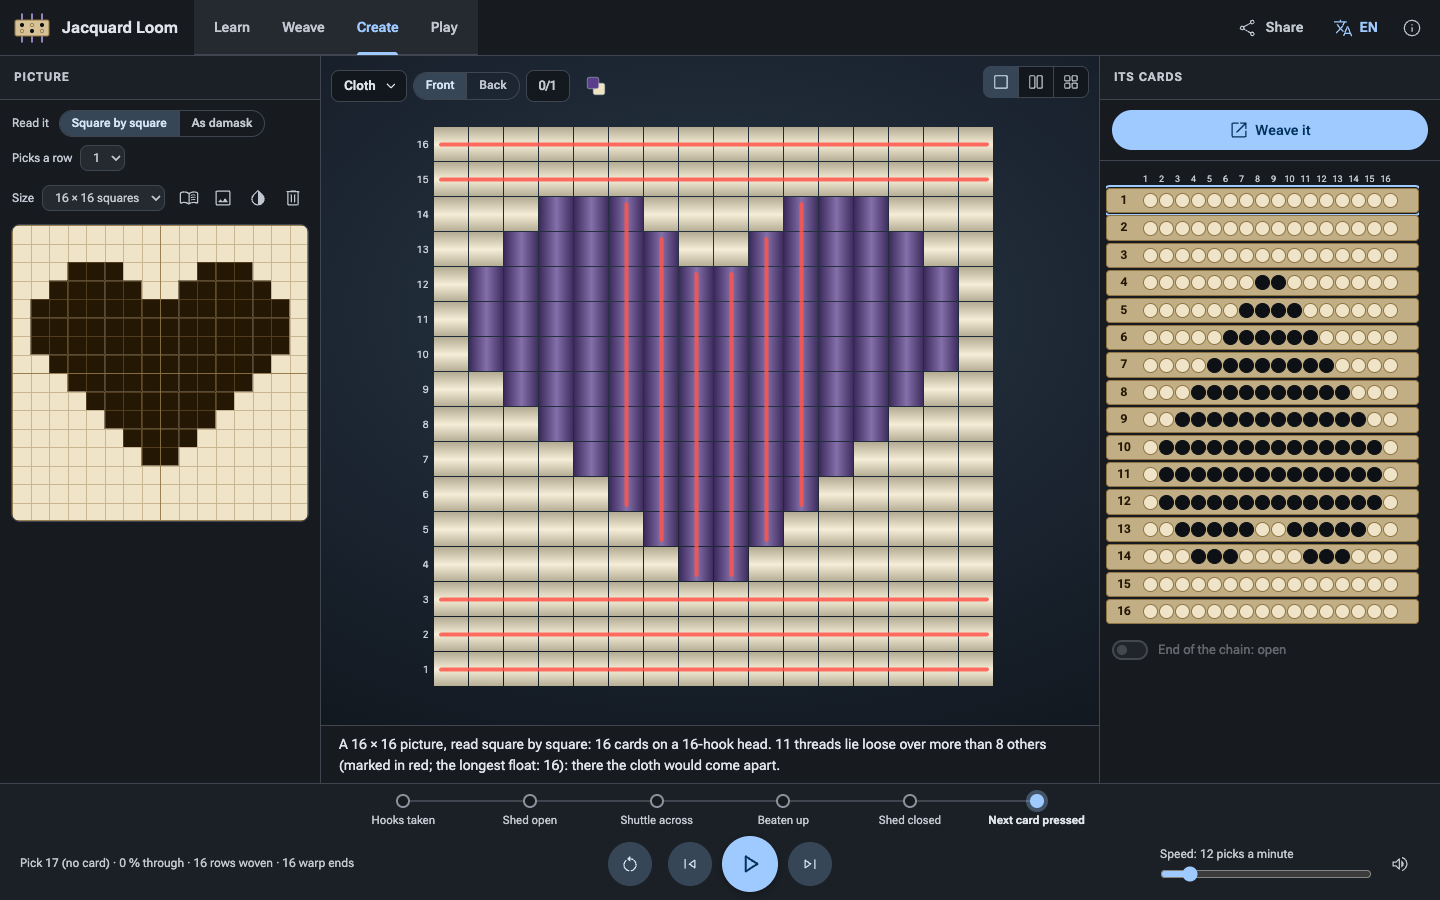
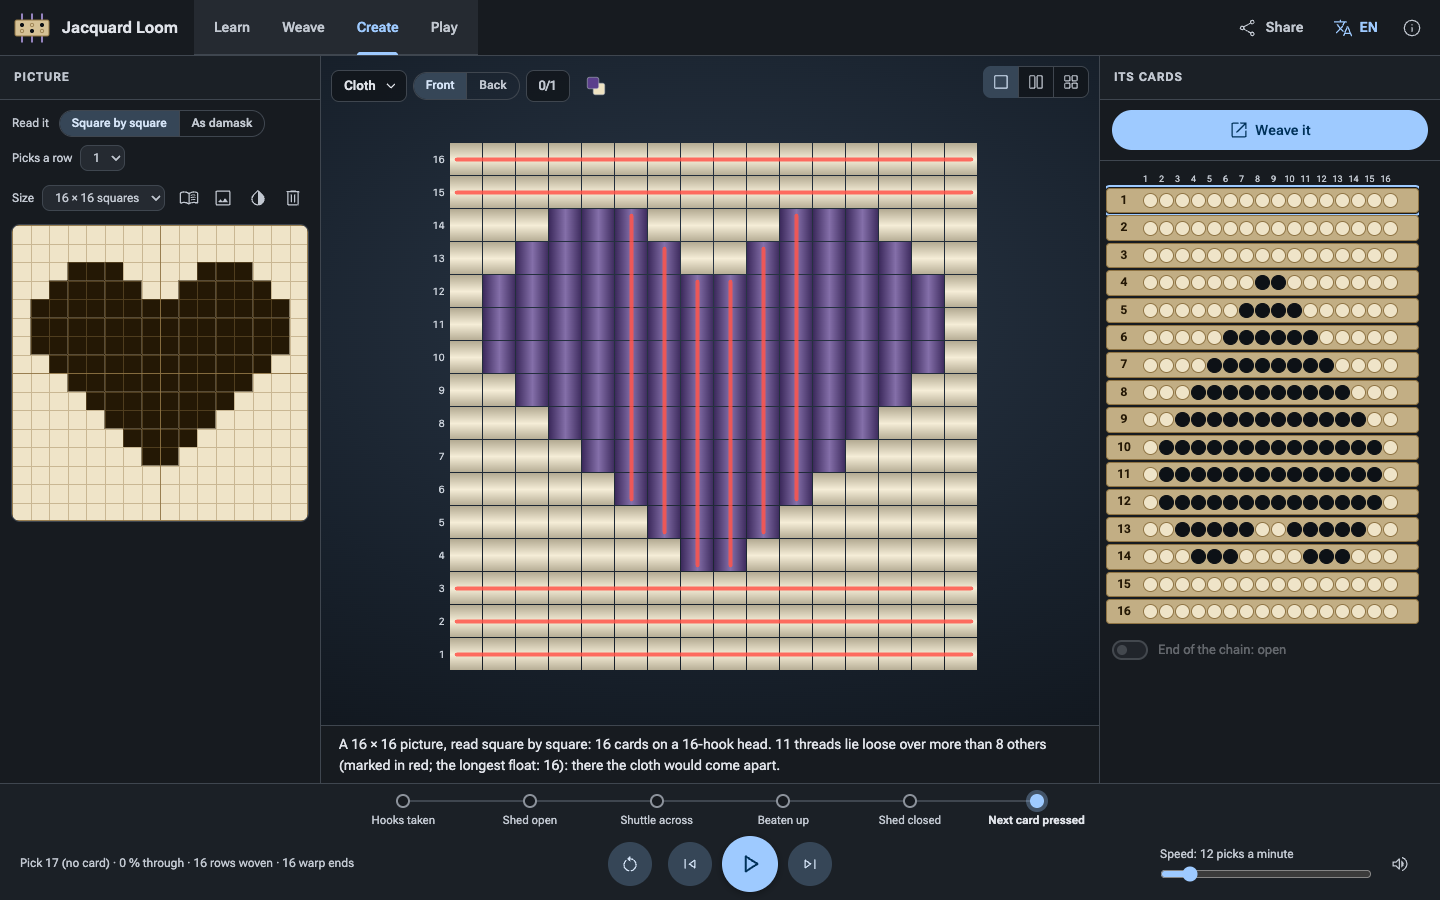
Create's cloth view: squares sized by the width only, at most 1.5 times the side panel's (33 px), rows past the pane scroll, as the side panel's cloth; the box centred by margins, so a tall cloth scrolls to its top; Play's checks renamed P-1 to P-6

Changed region(s): [[0.2812, 0.1244, 0.6875, 0.7778]]

diff --git a/js/accept/m9Checks.js b/js/accept/m9Checks.js
@@ -1,6 +1,6 @@
-// M9's checks on the app (design/m9-notes.md), run by index.html?selftest after M8's: G-1 Play
-// opens on its loom with the four games, G-2 the name game woven reads back as typed, G-3 one
-// byte per card and the friend's secret, G-4 guess the cloth, G-5 draw boy against Jacquard, G-6
+// M9's checks on the app (design/m9-notes.md), run by index.html?selftest after M8's: P-1 Play
+// opens on its loom with the four games, P-2 the name game woven reads back as typed, P-3 one
+// byte per card and the friend's secret, P-4 guess the cloth, P-5 draw boy against Jacquard, P-6
 // a game's link. The games' logic needs no page (tests/game/games.test.js).
 
 import { leaveLearn } from "../app/learn.js";
@@ -42,7 +42,7 @@ export async function runM9Checks(page) {
 }
 
 /**
- * G-1: Play opens on the game loom, the cloth on the stage, the games in four tabs; a tab
+ * P-1: Play opens on the game loom, the cloth on the stage, the games in four tabs; a tab
  * chooses its game.
  * @param {AppPage} page
  * @returns {Promise<CheckResult>}
@@ -59,11 +59,11 @@ async function opens({ store }) {
     await frames();
     if (store.state.play.game !== b.dataset.game || $(".game-title")?.textContent !== t(`game.${b.dataset.game}.title`)) bad.push(`the ${b.dataset.game} tab did not open its game`);
   }
-  return result("G-1", "Play opens on its loom with the cloth, and a tab for each of the four games opens it", bad.length === 0, bad.slice(0, 4).join("; ") || GAMES.join(", "));
+  return result("P-1", "Play opens on its loom with the cloth, and a tab for each of the four games opens it", bad.length === 0, bad.slice(0, 4).join("; ") || GAMES.join(", "));
 }
 
 /**
- * G-2: the name game: the text typed, woven to the end in both readings, reads back as typed.
+ * P-2: the name game: the text typed, woven to the end in both readings, reads back as typed.
  * @param {AppPage} page
  * @returns {Promise<CheckResult>}
  */
@@ -84,11 +84,11 @@ async function names({ store }) {
     const read = plan.ok ? decodeCloth(l.cloth, plan.plan).join("\n") : plan.reason;
     if (read !== "JACQUARD") bad.push(`${mode}: reads ${read}`);
   }
-  return result("G-2", "The name game: the text typed, woven to the end, reads back as typed, as damask and square by square", bad.length === 0, bad.slice(0, 4).join("; ") || "JACQUARD both ways");
+  return result("P-2", "The name game: the text typed, woven to the end, reads back as typed, as damask and square by square", bad.length === 0, bad.slice(0, 4).join("; ") || "JACQUARD both ways");
 }
 
 /**
- * G-3: one byte per card: the message is a card a character, woven back into the text; its link
+ * P-3: one byte per card: the message is a card a character, woven back into the text; its link
  * gives a friend only the cards, and the right reading is told so.
  * @param {AppPage} page
  * @returns {Promise<CheckResult>}
@@ -118,11 +118,11 @@ async function bytes({ store }) {
     await frames();
     if (!$(".game-body .game-result")?.textContent) bad.push("Check says nothing");
   }
-  return result("G-3", "One byte per card: a card a character, the cloth reads back as the message; its link gives only the cards, to be read", bad.length === 0, bad.slice(0, 4).join("; ") || `Loom in 4 cards; a ${fragment.length}-character link`);
+  return result("P-3", "One byte per card: a card a character, the cloth reads back as the message; its link gives only the cards, to be read", bad.length === 0, bad.slice(0, 4).join("; ") || `Loom in 4 cards; a ${fragment.length}-character link`);
 }
 
 /**
- * G-4: guess the cloth: three cloths, one the deck weaves; a wrong pick is told why, the right
+ * P-4: guess the cloth: three cloths, one the deck weaves; a wrong pick is told why, the right
  * one counted; Next brings another puzzle.
  * @param {AppPage} page
  * @returns {Promise<CheckResult>}
@@ -149,11 +149,11 @@ async function guess({ store }) {
   $$(".guess-choices .guess-choice")[q2.answer]?.click();
   await frames();
   if (store.state.play.guess.right !== 1) bad.push(`the right pick is not counted (${store.state.play.guess.right})`);
-  return result("G-4", "Guess the cloth: three cloths; a wrong pick is told why, the right one counted; Next brings another", bad.length === 0, bad.slice(0, 4).join("; ") || `puzzle ${seed}, answer ${q.answer + 1}`);
+  return result("P-4", "Guess the cloth: three cloths; a wrong pick is told why, the right one counted; Next brings another", bad.length === 0, bad.slice(0, 4).join("; ") || `puzzle ${seed}, answer ${q.answer + 1}`);
 }
 
 /**
- * G-5: draw boy against Jacquard: the figure woven by hand, cord by cord, row by row, then by the
+ * P-5: draw boy against Jacquard: the figure woven by hand, cord by cord, row by row, then by the
  * cards, the same cloth.
  * @param {AppPage} page
  * @returns {Promise<CheckResult>}
@@ -179,11 +179,11 @@ async function drawBoy({ store }) {
   await frames();
   const cloth = store.state.looms.game.loom.cloth;
   if (cloth.length !== ROWS.length || cloth.some((r, p) => r.slice(0, 8).join() !== ROWS[p].join())) bad.push("the cards' cloth is not the figure");
-  return result("G-5", "Draw boy against Jacquard: the figure woven cord by cord by hand, then by the cards, the same cloth", bad.length === 0, bad.slice(0, 4).join("; ") || `${hand.pulls} cords pulled for ${ROWS.length} rows`);
+  return result("P-5", "Draw boy against Jacquard: the figure woven cord by cord by hand, then by the cards, the same cloth", bad.length === 0, bad.slice(0, 4).join("; ") || `${hand.pulls} cords pulled for ${ROWS.length} rows`);
 }
 
 /**
- * G-6: a game's link opens the same game, and guess the cloth the same puzzle.
+ * P-6: a game's link opens the same game, and guess the cloth the same puzzle.
  * @param {AppPage} page
  * @returns {Promise<CheckResult>}
  */
@@ -199,5 +199,5 @@ async function link({ store }) {
   leaveLearn(store);
   await openLink(store, `#${fragment}`);
   if (store.state.workspace !== "play" || store.state.play.game !== "guess" || store.state.play.guess.seed !== seed) bad.push(`opened ${store.state.workspace}, ${store.state.play.game}, puzzle ${store.state.play.guess.seed}`);
-  return result("G-6", "A game's link opens the same game; guess the cloth, the same puzzle", bad.length === 0, bad.slice(0, 4).join("; ") || fragment);
+  return result("P-6", "A game's link opens the same game; guess the cloth, the same puzzle", bad.length === 0, bad.slice(0, 4).join("; ") || fragment);
 }

diff --git a/js/view2d/clothView.js b/js/view2d/clothView.js
@@ -50,6 +50,9 @@ function shade(hex, k) {
 
 /** At most this many rows are drawn, the newest. */
 const MAX_ROWS = 400;
+/** The largest square, in CSS pixels: in the panel, and as a view on the stage. */
+const CELL = 22;
+const LARGE_CELL = 33;
 
 /** @type {number | null} */
 let scrollbar = null;
@@ -110,9 +113,9 @@ export class ClothView {
 
   /**
    * @param {Snapshot} snap
-   * @param {{ face: "front" | "back", warp: string, weft: string, bits: boolean, trace: Trace | null, floats?: Float[], fit?: boolean }} o
-   *   floats: the loose threads to mark (on the front's ends and picks); fit: the whole cloth in
-   *   the host's height as well as its width, with larger squares (the cloth as a view, large)
+   * @param {{ face: "front" | "back", warp: string, weft: string, bits: boolean, trace: Trace | null, floats?: Float[], large?: boolean }} o
+   *   floats: the loose threads to mark (on the front's ends and picks); large: the cloth as a
+   *   view on the stage, its squares up to 1.5 times the panel's
    */
   render(snap, o) {
     // The newest rows only, when the cloth gets long (a looped chain can weave for ever).
@@ -126,10 +129,9 @@ export class ClothView {
     // again at every redraw, so it blinked as it grew past its box.
     const width = Math.max(200, steadyWidth(this.host) - 4);
     const across = Math.floor((width - this.left - 6) / ends);
-    const hs = getComputedStyle(this.host);
-    const inside = this.host.clientHeight - parseFloat(hs.paddingTop) - parseFloat(hs.paddingBottom);
-    const down = o.fit ? Math.floor((inside - this.top - 22) / Math.max(cells.length, 1)) : Infinity;
-    const cell = Math.max(3, Math.min(o.fit ? 40 : 22, across, down));
+    // The squares are sized by the width only, so they keep their size as the cloth grows, and
+    // rows past the host's height scroll, in the panel and on the stage alike.
+    const cell = Math.max(3, Math.min(o.large ? LARGE_CELL : CELL, across));
     this.cell = cell;
     const rows = Math.max(cells.length, 1);
     const w = this.left + ends * cell + 6;

diff --git a/js/app/components/panels.js b/js/app/components/panels.js
@@ -16,7 +16,7 @@ import { loomOf, shown } from "./component.js";
 /** @import { AppStore, LoomId } from "../looms.js" */
 /** @import { Component } from "./component.js" */
 
-/** @typedef {{ loom?: LoomId; large?: boolean }} PanelOptions the loom it shows, if not the current one; large: a view on the stage, fitting it */
+/** @typedef {{ loom?: LoomId; large?: boolean }} PanelOptions the loom it shows, if not the current one; large: a view on the stage, its squares larger */
 
 /**
  * The woven cloth, first pick at the bottom; a click on a cell follows its thread.
@@ -50,7 +50,7 @@ export function clothPanel(store, o = {}) {
       // a picture's cloth shows its loose threads (Create, and the tutorial's picture steps)
       const id = o.loom ?? s.current;
       const marks = id === "create" || (id === "tutorial" && s.workspace === "learn" && !!STEPS[s.learn.step].picture);
-      view.render(snap, { face: ls.face, warp: ls.warp, weft: ls.weft, bits: ls.bits, trace: ls.follow ? traceOf(snap, ls.follow) : null, floats: marks ? findFloats(snap.cloth).floats : undefined, fit: o.large });
+      view.render(snap, { face: ls.face, warp: ls.warp, weft: ls.weft, bits: ls.bits, trace: ls.follow ? traceOf(snap, ls.follow) : null, floats: marks ? findFloats(snap.cloth).floats : undefined, large: o.large });
     },
     unmount() {
       box.remove();

diff --git a/js/accept/m6Checks.js b/js/accept/m6Checks.js
@@ -347,10 +347,10 @@ async function views({ store }) {
     if (panes.length !== vs.length) bad.push(`${vs.join(",")}: ${panes.length} panes`);
     panes.forEach((host, i) => {
       const d = host.querySelector(":scope > svg, :scope > canvas");
-      // the cloth is drawn at a size its threads can be seen at: it fits its pane, not fills it
+      // the cloth's squares keep their size: it fits its pane's width, and scrolls down it
       if (vs[i] === "cloth") {
         const c = host.querySelector("canvas");
-        if (!c || area(c) === 0 || c.getBoundingClientRect().height > host.getBoundingClientRect().height + 1) bad.push(`cloth in ${vs.join(",")}: not in its pane`);
+        if (!c || area(c) === 0 || c.getBoundingClientRect().width > host.getBoundingClientRect().width + 1) bad.push(`cloth in ${vs.join(",")}: not in its pane`);
       } else if (!d || area(d) < 0.5 * area(host)) bad.push(`${vs[i]} in ${vs.join(",")}: does not fill its pane`);
     });
   }

diff --git a/css/app.css b/css/app.css
@@ -320,7 +320,9 @@ dialog::backdrop { background: var(--md-scrim); }
 .weave-it-row { flex: none; padding: 10px 12px; border-bottom: 1px solid var(--md-outline-variant); }
 .weave-it-row .btn { width: 100%; justify-content: center; gap: 6px; }
 /* the cloth as a view on the stage: centred, as large as the pane holds it */
-.cloth-box.large { width: 100%; height: 100%; display: flex; align-items: center; justify-content: center; padding: 56px 12px 12px; overflow: auto; }
+/* centred by its margins, not by flex alignment, so a cloth taller than its pane scrolls to its top (its newest rows) */
+.cloth-box.large { width: 100%; height: 100%; display: flex; padding: 56px 12px 12px; overflow: auto; }
+.cloth-box.large > canvas { margin: auto; flex: none; }
 
 /* ---- Play: the games (js/app/components/games.js) ------------------------------------------- */
 .games-slot { flex: 1 1 auto; min-height: 0; overflow-y: auto; }

diff --git a/design/m8-notes.md b/design/m8-notes.md
@@ -38,3 +38,7 @@
 4. **An image is read in the browser and never leaves it:** reduced to 256 pixels, then thresholded at the slider's level into the paper's squares.
 5. **The cloth view is a 2D view like the others** (`cloth` in the view menu), the default in Create and Play; each workspace keeps its own views (`viewsBy`).
 6. **The link format grows, it does not change** (design/links.md): Create's fields are new names, read only with `w=create`.
+
+## After the review (2026-10-28)
+
+7. **The cloth view sizes its squares as the side panel's cloth does:** by the width only, so they keep their size as rows are woven, and rows past the pane's height scroll (newest on top, where the scroll starts). Its squares are at most 33 px, 1.5 times the panel's 22, which leaves room for the red float marks; it first fitted the whole cloth in its pane, so its squares shrank as the cloth grew and started much larger than the panel's.

diff --git a/design/m9-notes.md b/design/m9-notes.md
@@ -1,6 +1,6 @@
 # M9 notes: Play, the four games
 
-- **Status:** built 2026-10-27/28, on the branch `release/v0.2.0` ([public-app.md](public-app.md) §2, §4). The games' logic passes in `pnpm test` (`tests/game/games.test.js`, `tests/accept/game.accept.test.js`), their links in `tests/sim/link.test.js` and `tests/app/links.test.js`, and the app with `?selftest` (G-1 to G-6).
+- **Status:** built 2026-10-27/28, on the branch `release/v0.2.0` ([public-app.md](public-app.md) §2, §4). The games' logic passes in `pnpm test` (`tests/game/games.test.js`, `tests/accept/game.accept.test.js`), their links in `tests/sim/link.test.js` and `tests/app/links.test.js`, and the app with `?selftest` (P-1 to P-6).
 - **Page:** [`index.html`](../index.html): a fourth workspace, Play.
 
 ## What M9 builds
